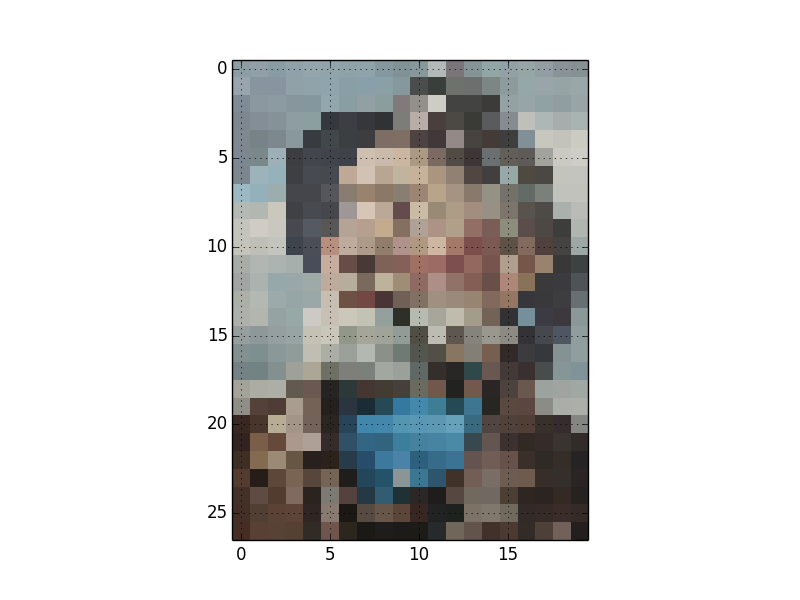
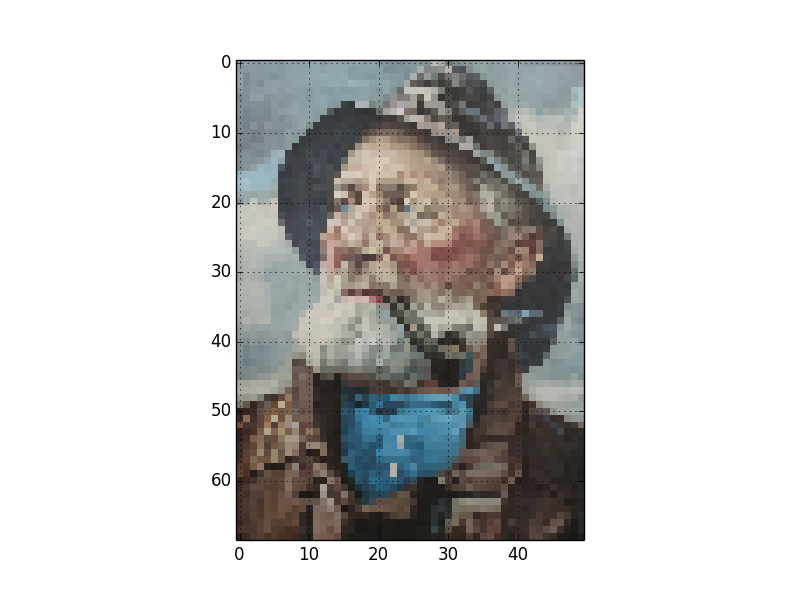
Updated example

Changed region(s): [[0.25, 0.09, 0.75, 0.93]]

diff --git a/cross-stitch.py b/cross-stitch.py
@@ -24,7 +24,7 @@ parser.add_argument('--width', '-w', type=int, nargs=1, default=20,
 args = parser.parse_args()
 infile = args.infile[0]
 outfile = args.outfile[0]
-width = args.width
+width = args.width[0]
 
 ## Read image ##################################################################
 try:
